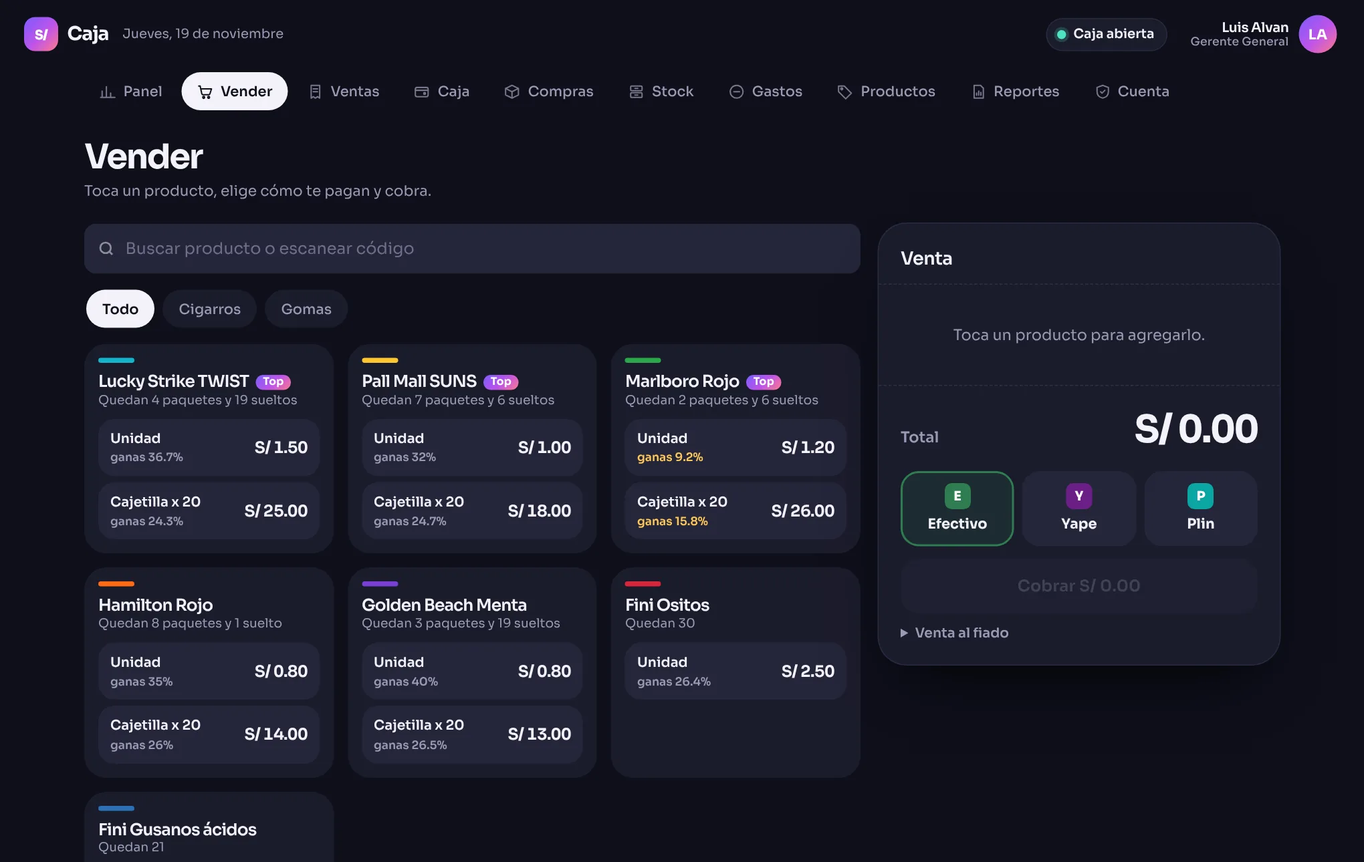
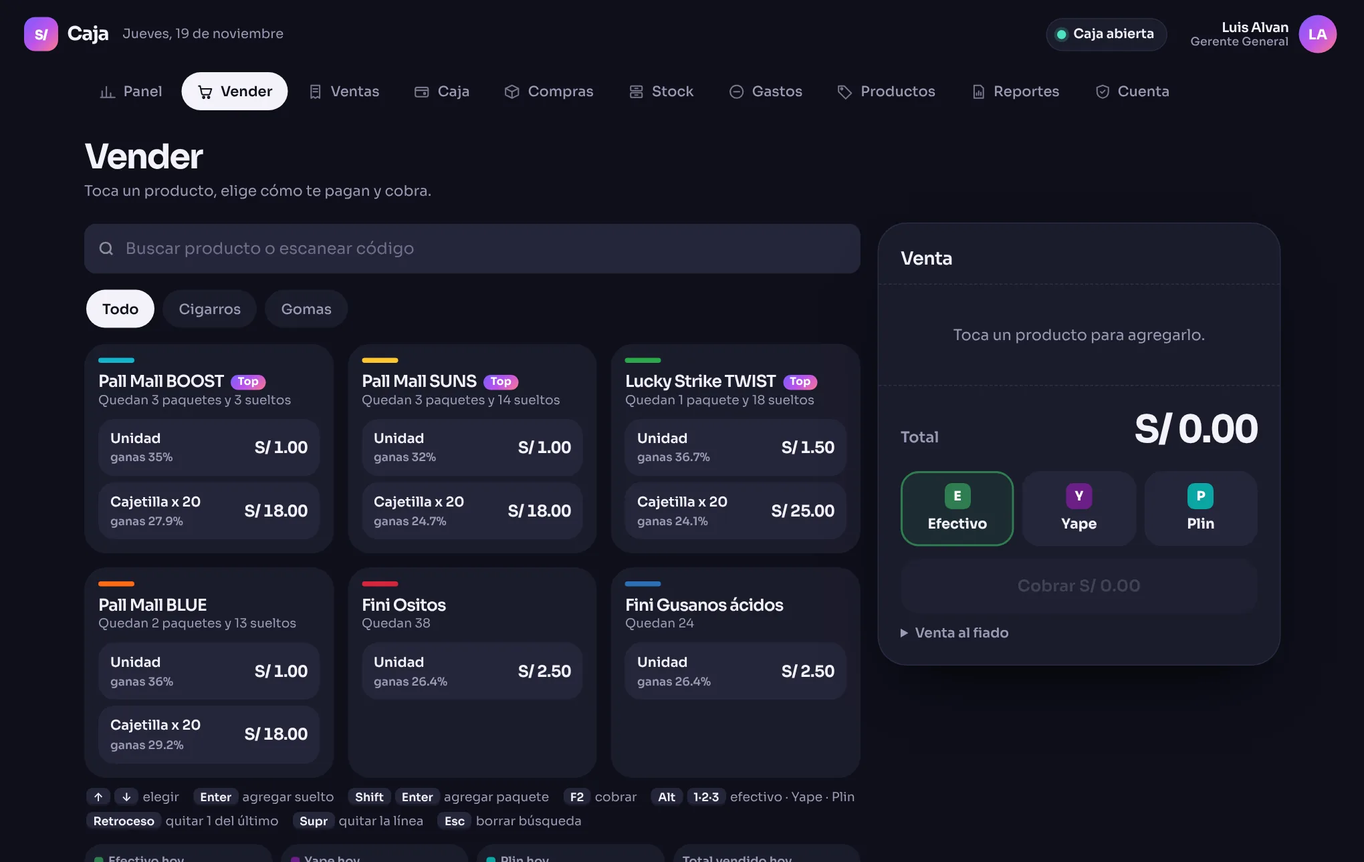
Seguridad: contraseñas filtradas y aviso de 2FA; demo con el catálogo real
- Al cambiar la contraseña se rechazan las filtradas (Have I Been Pwned, k-anonimato)
- Panel avisa si la cuenta no tiene verificación en dos pasos
- Demo: Pall Mall SUNS, BOOST, BLUE y Lucky Strike TWIST con mínimo de 20
- Capturas del README nuevas (ticket y seguridad)
- 46 pruebas

Claude-Session: https://claude.ai/code/session_01A819e7RNk7XQ6c1SRtXq9S

diff --git a/index.html b/index.html
@@ -4,7 +4,7 @@
 <meta charset="utf-8">
 <meta name="referrer" content="no-referrer">
 <meta name="viewport" content="width=device-width, initial-scale=1, viewport-fit=cover">
-<meta http-equiv="Content-Security-Policy" content="default-src 'none'; script-src https://cdn.jsdelivr.net 'wasm-unsafe-eval' 'sha256-0aShvTNSa9ugZdyfidIOm9PE5B8A3hemGMknOk1XVD0='; style-src 'unsafe-inline' https://fonts.googleapis.com; font-src https://fonts.gstatic.com; img-src 'self' data: blob:; worker-src 'self' blob:; connect-src 'self' https://keygysddihxgukmdggyy.supabase.co wss://keygysddihxgukmdggyy.supabase.co https://cdn.jsdelivr.net; base-uri 'none'; form-action 'none'; manifest-src 'self'">
+<meta http-equiv="Content-Security-Policy" content="default-src 'none'; script-src https://cdn.jsdelivr.net 'wasm-unsafe-eval' 'sha256-MceFINfsW53GqMz37bIRVIbSziXT71IEQrXP40nKBxU='; style-src 'unsafe-inline' https://fonts.googleapis.com; font-src https://fonts.gstatic.com; img-src 'self' data: blob:; worker-src 'self' blob:; connect-src 'self' https://keygysddihxgukmdggyy.supabase.co wss://keygysddihxgukmdggyy.supabase.co https://cdn.jsdelivr.net https://api.pwnedpasswords.com; base-uri 'none'; form-action 'none'; manifest-src 'self'">
 <meta name="referrer" content="no-referrer">
 <meta name="theme-color" content="#0E0F1A">
 <link rel="manifest" href="manifest.webmanifest">
@@ -1008,6 +1008,7 @@ async function vPanel(el) {
     q(sb.from('v_existencias').select('producto_id, producto, cantidad, stock_minimo, requiere_reposicion, costo_promedio').eq('activo', true)),
     q(sb.from('ventas').select('id', { count: 'exact', head: false }).eq('estado', 'EMITIDA').gte('fecha', ayer + 'T00:00:00-05:00').lt('fecha', inicioHoy())),
   ]);
+  const con2fa = sb.auth.mfa.listFactors().then(r => (r.data?.totp || []).some(f => f.status === 'verified')).catch(() => true);
   const [fiados, sesAbierta, preciosV, lotes] = await Promise.all([
     q(sb.from('v_cuentas_por_cobrar').select('saldo, dias_vencido')).catch(() => []),
     sesionCaja().catch(() => null),
@@ -1074,6 +1075,7 @@ async function vPanel(el) {
   <nav class="atajos" aria-label="Accesos rápidos"><button data-ir="vender">${ico('vender', 24)}<span>Vender</span></button><button data-ir="compras">${ico('compras', 24)}<span>Comprar</span></button><button data-ir="stock">${ico('stock', 24)}<span>Contar</span></button><button data-ir="gastos">${ico('gastos', 24)}<span>Gasto</span></button></nav>
   ${sesAbierta && Number(new Date().toLocaleString('en-US', { timeZone: 'America/Lima', hour: 'numeric', hour12: false })) >= 17 ? `<div class="aviso-barra"><p><b>¿Terminaste por hoy?</b> Cuenta el efectivo, cierra la caja y envíate el resumen en un solo paso.</p><button class="btn rotulo" id="btnCerrarDia">Cerrar el día</button></div>` : ''}
   ${urgentes.length ? `<div class="aviso-barra"><p><b>${urgentes.some(l => l.dias < 0) ? 'Tienes mercadería vencida.' : 'Mercadería por vencer esta semana.'}</b> ${urgentes.slice(0, 3).map(l => `${esc(l.producto)} (${l.dias < 0 ? 'vencido' : l.dias === 0 ? 'hoy' : `en ${l.dias} ${l.dias === 1 ? 'día' : 'días'}`})`).join(', ')}${urgentes.length > 3 ? ` y ${urgentes.length - 3} más` : ''}. Véndelo primero o dalo de baja.</p><button class="btn claro" data-ir="stock">Ver vencimientos</button></div>` : ''}
+  ${(await con2fa) ? '' : `<div class="aviso-barra"><p><b>Tu cuenta solo tiene contraseña.</b> Activa la verificación en dos pasos: así nadie entra a tu negocio sin el código de tu celular.</p><button class="btn claro" data-ir="cuenta">Activar</button></div>`}
   ${(d => d === null || d >= 7 ? `<div class="aviso-barra"><p><b>${d === null ? 'Aún no tienes copia de seguridad.' : `Tu última copia fue hace ${d} días.`}</b> Descárgala en un minuto para no perder tus datos si algo falla.</p><button class="btn claro" data-ir="cuenta">Hacer copia</button></div>` : '')(diasDesdeRespaldo())}
   ${sin2fa ? `<div class="aviso-barra"><p><b>Protege tu caja:</b> activa la verificación en dos pasos. Sin el código de tu celular, nadie podrá entrar aunque sepa tu contraseña.</p><button class="btn rotulo" data-ir="cuenta">Activar ahora</button></div>` : ''}
   ${alertas.length ? `<div class="panel alerta"><h2>${alertas.length === 1 ? 'Un precio deja' : alertas.length + ' precios dejan'} menos de tu margen mínimo (${P(umbral())})</h2>
@@ -3439,9 +3441,23 @@ function pedirCodigo() {
 }
 const contraseñaValida = c => c.length >= 10 && /[a-z]/.test(c) && /[A-Z]/.test(c) && /\d/.test(c);
 const REGLAS_CLAVE = 'Mínimo 10 caracteres, con al menos una mayúscula, una minúscula y un número.';
+// ¿La contraseña apareció en filtraciones? Se consulta Have I Been Pwned con k-anonimato:
+// solo se envían los 5 primeros caracteres de su huella SHA-1, nunca la contraseña.
+// Si no hay internet o el servicio falla, no bloquea (devuelve 0).
+async function vecesFiltrada(clave) {
+  try {
+    const h = [...new Uint8Array(await crypto.subtle.digest('SHA-1', new TextEncoder().encode(clave)))].map(b => b.toString(16).padStart(2, '0')).join('').toUpperCase();
+    const r = await fetch('https://api.pwnedpasswords.com/range/' + h.slice(0, 5), { headers: { 'Add-Padding': 'true' }, cache: 'no-store', referrerPolicy: 'no-referrer', credentials: 'omit' });
+    if (!r.ok) return 0;
+    const fila = (await r.text()).split(/\r?\n/).find(l => l.startsWith(h.slice(5) + ':'));
+    return fila ? Number(fila.split(':')[1]) || 0 : 0;
+  } catch { return 0; }
+}
 async function guardarContraseña(c1, c2) {
   if (c1 !== c2) { aviso('Las contraseñas no coinciden', true); return false; }
   if (!contraseñaValida(c1)) { aviso(REGLAS_CLAVE, true); return false; }
+  const filtrada = await vecesFiltrada(c1);
+  if (filtrada > 0) { aviso(`Esa contraseña apareció ${filtrada.toLocaleString('es-PE')} ${filtrada === 1 ? 'vez' : 'veces'} en filtraciones de internet. Elige otra que no uses en ningún otro sitio.`, true); return false; }
   const { error } = await sb.auth.updateUser({ password: c1 });
   if (error) {
     aviso(/reauthenticat|recent/i.test(error.message) ? 'Por seguridad, sal y vuelve a entrar antes de cambiar la contraseña.'

diff --git a/demo/index.html b/demo/index.html
@@ -4,7 +4,7 @@
 <meta charset="utf-8">
 <meta name="referrer" content="no-referrer">
 <meta name="viewport" content="width=device-width, initial-scale=1, viewport-fit=cover">
-<meta http-equiv="Content-Security-Policy" content="default-src 'none'; script-src 'self' https://cdn.jsdelivr.net 'wasm-unsafe-eval' 'sha256-dl+dwLbCio+Ox3MbS5LeSrvQRhXVVXuZLDlEDiLrN0Q='; style-src 'unsafe-inline' https://fonts.googleapis.com; font-src https://fonts.gstatic.com; img-src 'self' data: blob:; worker-src 'self' blob:; connect-src https://cdn.jsdelivr.net; base-uri 'none'; form-action 'none'; manifest-src 'self'">
+<meta http-equiv="Content-Security-Policy" content="default-src 'none'; script-src 'self' https://cdn.jsdelivr.net 'wasm-unsafe-eval' 'sha256-vLLOCxClvCEJH5HOSqZgPoRMG6JXyNVjEyP8qvo2hDE='; style-src 'unsafe-inline' https://fonts.googleapis.com; font-src https://fonts.gstatic.com; img-src 'self' data: blob:; worker-src 'self' blob:; connect-src https://cdn.jsdelivr.net https://api.pwnedpasswords.com; base-uri 'none'; form-action 'none'; manifest-src 'self'">
 <meta name="referrer" content="no-referrer">
 <meta name="theme-color" content="#0E0F1A">
 <link rel="icon" type="image/png" href="../favicon.png">
@@ -1013,6 +1013,7 @@ async function vPanel(el) {
     q(sb.from('v_existencias').select('producto_id, producto, cantidad, stock_minimo, requiere_reposicion, costo_promedio').eq('activo', true)),
     q(sb.from('ventas').select('id', { count: 'exact', head: false }).eq('estado', 'EMITIDA').gte('fecha', ayer + 'T00:00:00-05:00').lt('fecha', inicioHoy())),
   ]);
+  const con2fa = sb.auth.mfa.listFactors().then(r => (r.data?.totp || []).some(f => f.status === 'verified')).catch(() => true);
   const [fiados, sesAbierta, preciosV, lotes] = await Promise.all([
     q(sb.from('v_cuentas_por_cobrar').select('saldo, dias_vencido')).catch(() => []),
     sesionCaja().catch(() => null),
@@ -1079,6 +1080,7 @@ async function vPanel(el) {
   <nav class="atajos" aria-label="Accesos rápidos"><button data-ir="vender">${ico('vender', 24)}<span>Vender</span></button><button data-ir="compras">${ico('compras', 24)}<span>Comprar</span></button><button data-ir="stock">${ico('stock', 24)}<span>Contar</span></button><button data-ir="gastos">${ico('gastos', 24)}<span>Gasto</span></button></nav>
   ${sesAbierta && Number(new Date().toLocaleString('en-US', { timeZone: 'America/Lima', hour: 'numeric', hour12: false })) >= 17 ? `<div class="aviso-barra"><p><b>¿Terminaste por hoy?</b> Cuenta el efectivo, cierra la caja y envíate el resumen en un solo paso.</p><button class="btn rotulo" id="btnCerrarDia">Cerrar el día</button></div>` : ''}
   ${urgentes.length ? `<div class="aviso-barra"><p><b>${urgentes.some(l => l.dias < 0) ? 'Tienes mercadería vencida.' : 'Mercadería por vencer esta semana.'}</b> ${urgentes.slice(0, 3).map(l => `${esc(l.producto)} (${l.dias < 0 ? 'vencido' : l.dias === 0 ? 'hoy' : `en ${l.dias} ${l.dias === 1 ? 'día' : 'días'}`})`).join(', ')}${urgentes.length > 3 ? ` y ${urgentes.length - 3} más` : ''}. Véndelo primero o dalo de baja.</p><button class="btn claro" data-ir="stock">Ver vencimientos</button></div>` : ''}
+  ${(await con2fa) ? '' : `<div class="aviso-barra"><p><b>Tu cuenta solo tiene contraseña.</b> Activa la verificación en dos pasos: así nadie entra a tu negocio sin el código de tu celular.</p><button class="btn claro" data-ir="cuenta">Activar</button></div>`}
   ${(d => d === null || d >= 7 ? `<div class="aviso-barra"><p><b>${d === null ? 'Aún no tienes copia de seguridad.' : `Tu última copia fue hace ${d} días.`}</b> Descárgala en un minuto para no perder tus datos si algo falla.</p><button class="btn claro" data-ir="cuenta">Hacer copia</button></div>` : '')(diasDesdeRespaldo())}
   ${sin2fa ? `<div class="aviso-barra"><p><b>Protege tu caja:</b> activa la verificación en dos pasos. Sin el código de tu celular, nadie podrá entrar aunque sepa tu contraseña.</p><button class="btn rotulo" data-ir="cuenta">Activar ahora</button></div>` : ''}
   ${alertas.length ? `<div class="panel alerta"><h2>${alertas.length === 1 ? 'Un precio deja' : alertas.length + ' precios dejan'} menos de tu margen mínimo (${P(umbral())})</h2>
@@ -3444,9 +3446,23 @@ function pedirCodigo() {
 }
 const contraseñaValida = c => c.length >= 10 && /[a-z]/.test(c) && /[A-Z]/.test(c) && /\d/.test(c);
 const REGLAS_CLAVE = 'Mínimo 10 caracteres, con al menos una mayúscula, una minúscula y un número.';
+// ¿La contraseña apareció en filtraciones? Se consulta Have I Been Pwned con k-anonimato:
+// solo se envían los 5 primeros caracteres de su huella SHA-1, nunca la contraseña.
+// Si no hay internet o el servicio falla, no bloquea (devuelve 0).
+async function vecesFiltrada(clave) {
+  try {
+    const h = [...new Uint8Array(await crypto.subtle.digest('SHA-1', new TextEncoder().encode(clave)))].map(b => b.toString(16).padStart(2, '0')).join('').toUpperCase();
+    const r = await fetch('https://api.pwnedpasswords.com/range/' + h.slice(0, 5), { headers: { 'Add-Padding': 'true' }, cache: 'no-store', referrerPolicy: 'no-referrer', credentials: 'omit' });
+    if (!r.ok) return 0;
+    const fila = (await r.text()).split(/\r?\n/).find(l => l.startsWith(h.slice(5) + ':'));
+    return fila ? Number(fila.split(':')[1]) || 0 : 0;
+  } catch { return 0; }
+}
 async function guardarContraseña(c1, c2) {
   if (c1 !== c2) { aviso('Las contraseñas no coinciden', true); return false; }
   if (!contraseñaValida(c1)) { aviso(REGLAS_CLAVE, true); return false; }
+  const filtrada = await vecesFiltrada(c1);
+  if (filtrada > 0) { aviso(`Esa contraseña apareció ${filtrada.toLocaleString('es-PE')} ${filtrada === 1 ? 'vez' : 'veces'} en filtraciones de internet. Elige otra que no uses en ningún otro sitio.`, true); return false; }
   const { error } = await sb.auth.updateUser({ password: c1 });
   if (error) {
     aviso(/reauthenticat|recent/i.test(error.message) ? 'Por seguridad, sal y vuelve a entrar antes de cambiar la contraseña.'

diff --git a/demo/demo.js b/demo/demo.js
@@ -41,11 +41,10 @@
   // ---------- 3. Catálogo ----------
   const MARCAS = [
     // id, nombre, costo por unidad, precio unidad, precio paquete (null = no se vende entero), stock mínimo, peso en ventas, marca, variante, categoría, unidades por paquete, código en factura, nombre en factura
-    ['p1', 'Pall Mall SUNS', 0.66, 1.00, 18.00, 60, 30, 'Pall Mall', 'SUNS', 'k1', 20, '460069', 'CIG PALL MALL SUNS XL UND CAJT 20 P'],
-    ['p2', 'Lucky Strike TWIST', 0.95, 1.50, 25.00, 40, 22, 'Lucky Strike', 'TWIST', 'k1', 20, '460018', 'CIG LUCK STRK TWIST UND CAJT 20 PZA'],
-    ['p3', 'Hamilton Rojo', 0.52, 0.80, 14.00, 60, 18, 'Hamilton', 'Rojo', 'k1', 20, '460031', 'CIG HAMILTON ROJO UND CAJT 20'],
-    ['p4', 'Marlboro Rojo', 1.10, 1.20, 26.00, 40, 15, 'Marlboro', 'Rojo', 'k1', 20, '460044', 'CIG MARLBORO ROJO BOX CAJT 20'],
-    ['p5', 'Golden Beach Menta', 0.48, 0.80, 13.00, 40, 15, 'Golden Beach', 'Menta', 'k1', 20, '460052', 'CIG GOLDEN BEACH MENTA CAJT 20'],
+    ['p1', 'Pall Mall SUNS', 0.65, 1.00, 18.00, 20, 30, 'Pall Mall', 'SUNS', 'k1', 20, '460069', 'CIG PALL MALL SUNS XL UND CAJT 20 P'],
+    ['p2', 'Pall Mall BOOST', 0.65, 1.00, 18.00, 20, 28, 'Pall Mall', 'BOOST', 'k1', 20, '460066', 'CIG PALL MALL BOOST UND CAJT 20 PZA'],
+    ['p3', 'Pall Mall BLUE', 0.64, 1.00, 18.00, 20, 20, 'Pall Mall', 'BLUE', 'k1', 20, '460022', 'CIG PALL MALL BLUE UND CAJT 20 PZA'],
+    ['p4', 'Lucky Strike TWIST', 0.95, 1.50, 25.00, 20, 14, 'Lucky Strike', 'TWIST', 'k1', 20, '460018', 'CIG LUCK STRK TWIST UND CAJT 20 PZA'],
     ['p6', 'Fini Ositos', 1.84, 2.50, null, 12, 9, 'Fini', 'Ositos', 'k2', 12, '001292', 'GOMAS FINI OSITOS (CJX12UN) UNX80G'],
     ['p7', 'Fini Gusanos ácidos', 1.84, 2.50, null, 12, 7, 'Fini', 'Gusanos ácidos', 'k2', 12, '001289', 'GOMAS FINI GUSANOS ACIDOS(CJX12UN) UNX90G'],
   ];
@@ -126,7 +125,7 @@
   // y termine con algunas marcas por reponer.
   const vendido = {}; MARCAS.forEach(([id]) => vendido[id] = 0);
   ventasRaw.forEach(v => v.lineas.forEach(l => { const pr = presentaciones.find(p => p.id === l.presentacion_id); vendido[pr.producto_id] += l.cantidad * pr.factor; }));
-  const FINAL = { p1: 130, p2: 95, p3: 150, p4: 28, p5: 70, p6: 30, p7: 20 }; // stock con el que termina la demo
+  const FINAL = { p1: 57, p2: 59, p3: 48, p4: 28, p6: 30, p7: 20 }; // stock con el que termina la demo (como el negocio real)
   const TANDAS = [[20, 'pv1', 0.46, 'k1'], [14, 'pv2', 0.2, 'k1'], [9, 'pv2', 0.14, 'k1'], [6, 'pv1', 0.1, 'k1'], [2, 'pv1', 0.1, 'k1'], [19, 'pv3', 0.45, 'k2'], [9, 'pv3', 0.3, 'k2'], [3, 'pv3', 0.25, 'k2']];
   const VENCE = { 'pv3-19': 2, 'pv3-9': 25, 'pv3-3': 6 }; // días hasta el vencimiento desde hoy (negativo = vence lejos)
   TANDAS.forEach(([n, prov, parte, cat], k) => {

diff --git a/tests/2-flujos.spec.js b/tests/2-flujos.spec.js
@@ -14,17 +14,17 @@ test('todas las pantallas abren sin errores', async ({ page, errores }) => {
 test('vender en efectivo descuenta el stock y suma a la caja del día', async ({ page, errores }) => {
   await abrirDemo(page);
   await irA(page, 'vender');
-  const prod = page.locator('#estante .prod').filter({ hasText: 'Marlboro Rojo' });
+  const prod = page.locator('#estante .prod').filter({ hasText: 'Pall Mall BOOST' });
   const stockAntes = await prod.locator('.stock').innerText();
   const totalAntes = await page.locator('.resumen-dia div').last().locator('b').innerText();
 
   await prod.locator('.opc').first().click();
-  await expect(page.locator('#ticket')).toContainText('Marlboro Rojo');
+  await expect(page.locator('#ticket')).toContainText('Pall Mall BOOST');
   await page.locator('#btnCobrar').click();
   await expect(page.locator('#ticket')).toContainText('Cobrado con Efectivo');
 
   await irA(page, 'vender');
-  const prod2 = page.locator('#estante .prod').filter({ hasText: 'Marlboro Rojo' });
+  const prod2 = page.locator('#estante .prod').filter({ hasText: 'Pall Mall BOOST' });
   await expect(prod2.locator('.stock')).not.toHaveText(stockAntes);
   await expect(page.locator('.resumen-dia div').last().locator('b')).not.toHaveText(totalAntes);
 });
@@ -87,7 +87,7 @@ test('en celular ninguna pantalla se sale de lado', async ({ page, errores }) =>
 test('el ticket para el cliente es opcional y lleva el nombre de la empresa', async ({ page, errores }) => {
   await abrirDemo(page);
   await irA(page, 'vender');
-  await page.locator('#estante .prod').filter({ hasText: 'Marlboro Rojo' }).locator('.opc').first().click();
+  await page.locator('#estante .prod').filter({ hasText: 'Pall Mall BOOST' }).locator('.opc').first().click();
   await page.locator('#btnCobrar').click();
   await expect(page.locator('#ticket')).toContainText('Cobrado con');
   // No se abre nada solo: el botón espera a que el cliente lo pida
@@ -95,7 +95,7 @@ test('el ticket para el cliente es opcional y lleva el nombre de la empresa', as
   await page.locator('#enviarTicket').click();
   const texto = await page.locator('form.dialogo textarea').inputValue();
   expect(texto).toContain('*Oni Cobin S.A.C.*');
-  expect(texto).toContain('Marlboro Rojo');
+  expect(texto).toContain('Pall Mall BOOST');
   expect(texto).toContain('no es comprobante de pago');
   await page.locator('form.dialogo [data-x]').click();
 });

diff --git a/tests/4-seguridad.spec.js b/tests/4-seguridad.spec.js
@@ -77,3 +77,32 @@ test('un nombre de producto con código malicioso se muestra como texto, sin eje
   expect(await page.evaluate(() => window.__hackeado)).toBeUndefined();
   await expect(page.locator('#estante'), 'El nombre aparece tal cual, como texto').toContainText('<img src=x onerror=');
 });
+
+test('rechaza una contraseña que apareció en filtraciones, sin enviarla completa', async ({ page, errores }) => {
+  const crypto = require('crypto');
+  const clave = 'Password1234';
+  const h = crypto.createHash('sha1').update(clave).digest('hex').toUpperCase();
+  const pedidas = [];
+  await page.route('https://api.pwnedpasswords.com/range/*', r => { pedidas.push(r.request().url()); r.fulfill({ status: 200, body: `0018A45C4D1DEF81644B54AB7F969B88D65:0\r\n${h.slice(5)}:52310\r\n` }); });
+  await abrirDemo(page);
+  const ok = await page.evaluate(c => guardarContraseña(c, c), clave);
+  expect(ok).toBe(false);
+  await expect(page.locator('#aviso')).toContainText('apareció');
+  expect(pedidas).toEqual([`https://api.pwnedpasswords.com/range/${h.slice(0, 5)}`]);
+  expect(pedidas[0]).not.toContain(clave);
+});
+
+test('si el servicio de filtraciones no responde, igual deja cambiar la contraseña', async ({ page, errores }) => {
+  await page.route('https://api.pwnedpasswords.com/range/*', r => r.abort());
+  await abrirDemo(page);
+  expect(await page.evaluate(() => vecesFiltrada('OtraClaveSegura987'))).toBe(0);
+});
+
+test('el Panel avisa si la cuenta no tiene verificación en dos pasos', async ({ page, errores }) => {
+  await abrirDemo(page);
+  await irA(page, 'panel');
+  await expect(page.locator('.aviso-barra', { hasText: 'solo tiene contraseña' })).toHaveCount(0);
+  await page.evaluate(() => { sb.auth.mfa.listFactors = () => Promise.resolve({ data: { all: [], totp: [] }, error: null }); });
+  await irA(page, 'panel');
+  await expect(page.locator('.aviso-barra', { hasText: 'solo tiene contraseña' })).toBeVisible();
+});

diff --git a/tests/3-teclado.spec.js b/tests/3-teclado.spec.js
@@ -7,11 +7,11 @@ test('buscar, Enter agrega, Retroceso quita 1, Supr quita la línea', async ({ p
   await abrirDemo(page);
   await irA(page, 'vender');
   await page.locator('body').click({ position: { x: 5, y: 5 } });
-  await page.keyboard.type('marlboro');
-  await expect(page.locator('#buscar')).toHaveValue('marlboro');
+  await page.keyboard.type('boost');
+  await expect(page.locator('#buscar')).toHaveValue('boost');
   await page.keyboard.press('Enter');
   await expect(page.locator('#buscar'), 'Después de agregar, la búsqueda se limpia').toHaveValue('');
-  await page.keyboard.type('marlboro');
+  await page.keyboard.type('boost');
   await page.keyboard.press('Enter');
   const linea = page.locator('#ticket .linea[data-linea]');
   await expect(linea).toHaveCount(1);

diff --git a/sw.js b/sw.js
@@ -2,7 +2,7 @@
 // - La página (index.html): primero red, si no hay, la copia guardada (así las actualizaciones llegan solas).
 // - Librerías de jsDelivr y fuentes: versiones fijas, se guardan la primera vez y se reutilizan.
 // - Supabase (tus datos): nunca se guarda aquí; siempre va directo a la red.
-const CACHE_APP = 'caja-app-v26';
+const CACHE_APP = 'caja-app-v27';
 const CACHE_LIBS = 'caja-libs-v1';
 const APP = ['./', './index.html', './recordatorio/cierre-21.ics', './manifest.webmanifest', './icon-192.png', './icon-512.png', './icon-maskable-512.png', './apple-touch-icon.png', './favicon.png'];
 // Librerías que la app necesita para abrir sin internet (mismas versiones fijas que en index.html)

diff --git a/tools/build_demo.py b/tools/build_demo.py
@@ -17,7 +17,7 @@ def cambiar(viejo, nuevo, regex=False):
 cambiar(r'<script src="https://cdn\.jsdelivr\.net/npm/@supabase/supabase-js@[^>]*></script>', '<script src="demo.js"></script>', regex=True)
 # 2. CSP: permitir el script propio; sin conexión a la base real
 cambiar("script-src https://cdn.jsdelivr.net", "script-src 'self' https://cdn.jsdelivr.net")
-cambiar(r"connect-src [^;]*;", "connect-src https://cdn.jsdelivr.net;", regex=True)
+cambiar(r"connect-src [^;]*;", "connect-src https://cdn.jsdelivr.net https://api.pwnedpasswords.com;", regex=True)
 # 3. No es instalable ni registra el service worker de la app real
 cambiar('<link rel="manifest" href="manifest.webmanifest">\n', '')
 cambiar('href="favicon.png"', 'href="../favicon.png"')

diff --git a/README.md b/README.md
@@ -27,7 +27,7 @@ Una app instalable en el celular (PWA), pensada para usarse con una mano detrás
 
 | Área | Qué resuelve |
 |---|---|
-| **Vender** | Ticket rápido por presentación (unidad o paquete), filtros por categoría y lo más vendido primero. Cobro con efectivo, Yape o Plin, vuelto y fiados. Funciona **sin internet** y sincroniza sin duplicar ventas |
+| **Vender** | Ticket rápido por presentación (unidad o paquete), filtros por categoría y lo más vendido primero. Cobro con efectivo, Yape o Plin, vuelto y fiados. Funciona **sin internet** y sincroniza sin duplicar ventas. Si el cliente lo pide, le envía un **ticket por WhatsApp** a nombre de la empresa |
 | **Panel** | Ganancia del día, anillo de avance de la meta, margen explicado en soles ("de cada S/ 10 te quedan S/ 2.69") y avisos de lo urgente |
 | **Escáner de facturas** | Foto o **PDF**: lee el QR de SUNAT y el texto con OCR en el propio dispositivo. Reconoce productos **por código del proveedor**, tolera errores de lectura, registra **bonificaciones** a costo cero y crea productos nuevos con **precio sugerido**, avisando si ya existe uno igual |
 | **Catálogo** | Categorías con su "receta" (cómo se compra y se vende), productos con **marca + variante** y nombre y código de factura. Asistente de 3 pasos para crear productos |
@@ -48,6 +48,11 @@ Una app instalable en el celular (PWA), pensada para usarse con una mano detrás
   <img src="docs/movil-proveedores.webp" width="230" alt="Precios por proveedor con alerta de subida">
 </p>
 
+<p>
+  <img src="docs/movil-ticket.webp" width="230" alt="Ticket opcional para el cliente por WhatsApp">
+  <img src="docs/movil-seguridad.webp" width="230" alt="Tu seguridad: puntaje y dispositivos con la sesión abierta">
+</p>
+
 ## Decisiones contables
 
 Lo más interesante del proyecto fue traducir criterios contables en reglas que el sistema aplica solo:
@@ -62,8 +67,10 @@ Lo más interesante del proyecto fue traducir criterios contables en reglas que 
 
 ## Seguridad
 
-- Base de datos **PostgreSQL** con *Row Level Security* en las 36 tablas. Las operaciones contables pasan por funciones que validan el rol.
+- Base de datos **PostgreSQL** con *Row Level Security* en todas las tablas: leer exige un usuario activo y escribir, el rol de administrador. Las 35 operaciones contables pasan por funciones que validan el rol; ninguna está abierta al público.
+- **Registro de usuarios cerrado** y sin accesos anónimos: una cuenta nueva no tendría ningún permiso.
 - **Verificación en dos pasos (TOTP)** exigida a nivel de base de datos, no solo en la pantalla.
+- **Contraseñas filtradas bloqueadas:** al cambiar la contraseña se consulta *Have I Been Pwned* con k-anonimato (solo viajan 5 caracteres de la huella SHA-1, nunca la contraseña).
 - *Content Security Policy* estricta, librerías con *Subresource Integrity*, cierre de sesión por inactividad y registro de auditoría.
 - Panel **"Tu seguridad"**: puntaje, dispositivos con la sesión abierta (con cierre remoto) y tiempo de cierre automático a elección. Al salir se borran del equipo las copias de datos del negocio.
 - La demostración usa una base de ejemplo en memoria y un almacenamiento propio: no puede leer ni escribir datos reales.
@@ -72,14 +79,14 @@ Lo más interesante del proyecto fue traducir criterios contables en reglas que 
 
 ![Pruebas](https://github.com/Sleepdong/caja/actions/workflows/pruebas.yml/badge.svg)
 
-Cada cambio publicado pasa por **38 pruebas** en un navegador real (Playwright), en tamaño laptop y celular. Corren contra la demo, así que nunca tocan la base real.
+Cada cambio publicado pasa por **46 pruebas** en un navegador real (Playwright), en tamaño laptop y celular. Corren contra la demo, así que nunca tocan la base real.
 
 | Grupo | Qué comprueba |
 |---|---|
 | Archivos | La CSP autoriza exactamente el código de la app, cada librería externa trae su huella (SRI), no hay `eval` ni claves secretas, la demo está al día |
 | Flujos del negocio | Todas las pantallas abren sin errores y ninguna se sale de lado en un celular de 360 px; vender descuenta el stock y suma a la caja; conteo de inventario con "Lo vendí"; asistente de cierre del día |
 | Teclado | Buscar, Enter agrega, Retroceso y Supr corrigen, F2 cobra |
-| Seguridad | Cierre por inactividad, limpieza de datos al salir, aviso de ventas sin subir y un nombre de producto con código malicioso que se muestra como texto sin ejecutarse |
+| Seguridad | Contraseñas filtradas, aviso de verificación en dos pasos, cierre por inactividad, limpieza de datos al salir, aviso de ventas sin subir y un nombre de producto con código malicioso que se muestra como texto sin ejecutarse |
 
 ```
 cd tests && npm install && npx playwright install chromium && npm test
